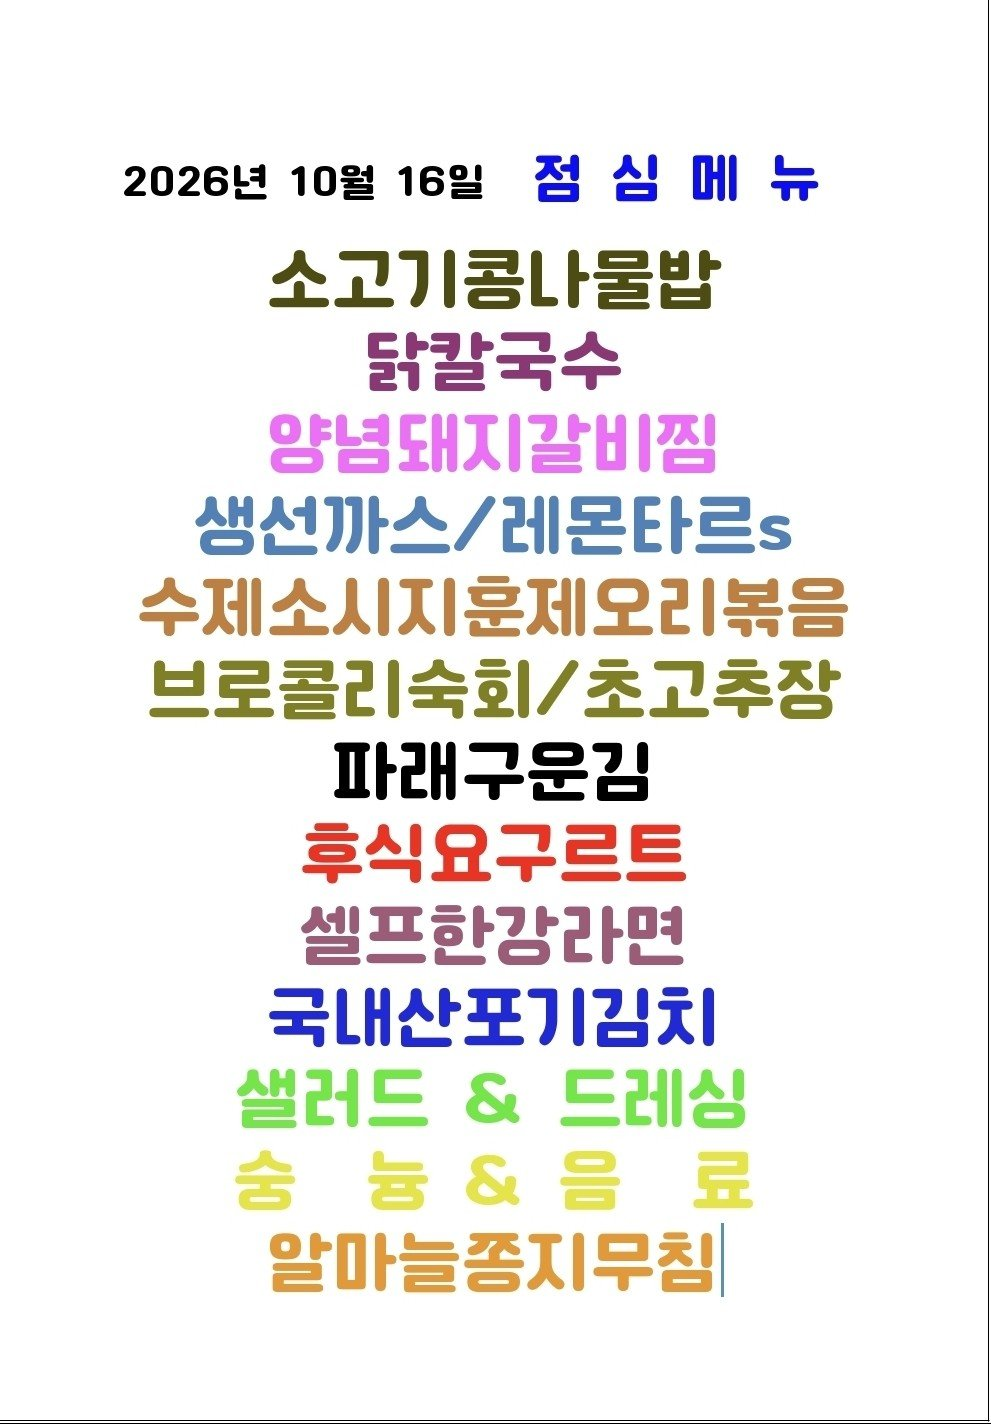
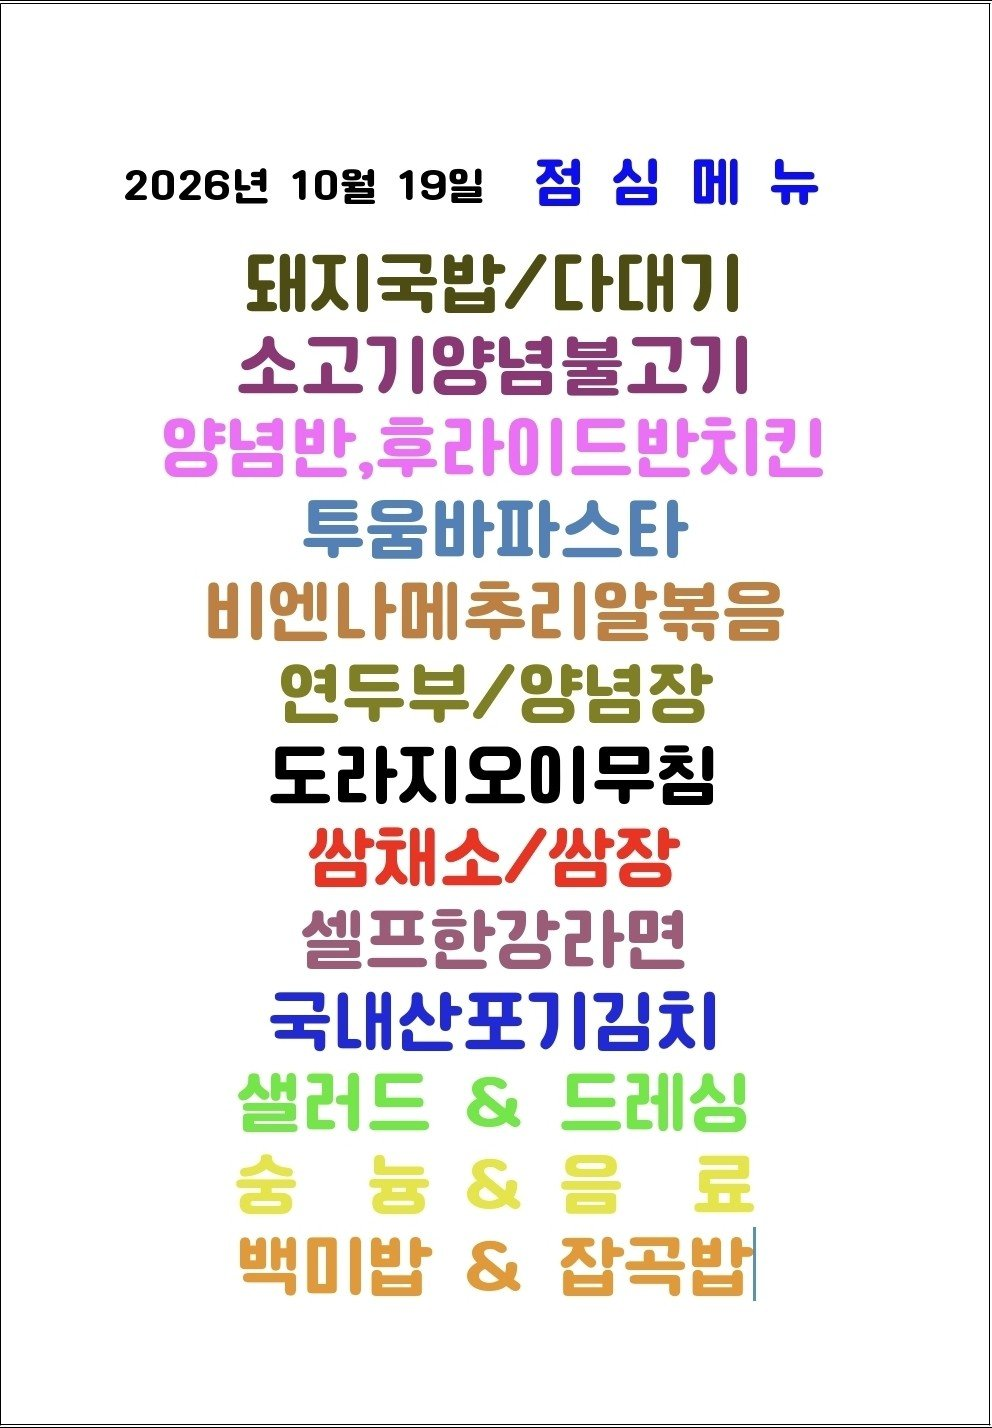
Update menu board assets

diff --git a/menu-today/index.html b/menu-today/index.html
@@ -209,7 +209,7 @@
 
     <section class="meta-bar">
       <div class="meta-card"><div class="meta-label">기준 날짜</div><div class="meta-value">2026년 10월 19일 월요일</div></div>
-      <div class="meta-card"><div class="meta-label">최종 가져온 시간</div><div class="meta-value">2026-10-19 09:48:05</div></div>
+      <div class="meta-card"><div class="meta-label">최종 가져온 시간</div><div class="meta-value">2026-10-19 10:03:37</div></div>
       <div class="meta-card"><div class="meta-label">확인 완료</div><div class="meta-value">9개 식당</div></div>
       <div class="meta-card"><div class="meta-label">준비중</div><div class="meta-value">3개 채널</div></div>
     </section>
@@ -265,7 +265,7 @@
             <div class="sub">가산비즈니스센터</div>
           </div>
         </div>
-        <div class="menu-inline-image"><img src="./images/raonfood.png" alt="구내식당라온푸드 식단 이미지"></div><div class="info-note">오늘 메뉴 미수집 상태입니다.</div>
+        <div class="menu-inline-image"><img src="./images/raonfood.png" alt="구내식당라온푸드 식단 이미지"></div><ul><li>대지국밥 / 다대)!</li><li>소고 )양념불고 )</li><li>투움바파스타</li><li>연두부 / 양념잠</li><li>쌈재소 / 쌈잠</li><li>샐러드 &amp; 드레싱</li><li>돼지국밥 / 다대)</li></ul>
       </article>
 
       <article class="restaurant-card">

diff --git a/guro-menu/index.html b/guro-menu/index.html
@@ -32,7 +32,7 @@
   </header>
   <section class="meta">
     <div><small>기준 날짜</small><strong>2026년 10월 19일 월요일</strong></div>
-    <div><small>최종 갱신</small><strong>2026-10-19 09:48:20</strong></div>
+    <div><small>최종 갱신</small><strong>2026-10-19 10:03:52</strong></div>
     <div><small>등록 식당</small><strong>5개</strong></div>
   </section>
   <div class="notice">공개 카카오 채널의 메뉴 이미지를 자동 수집하고 OCR로 정리합니다. 텍스트에 오타가 있을 수 있으니 식단 이미지를 함께 확인해 주세요.</div>
